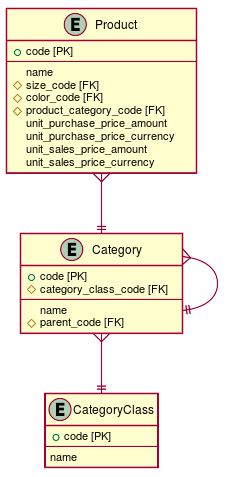
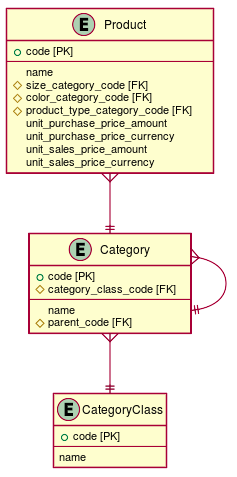
商品モデルの実装 #EFROR-77
・分類を汎化した商品モデルリファクタリング

diff --git a/spec/models/sales_modeling/type2/product_spec.rb b/spec/models/sales_modeling/type2/product_spec.rb
@@ -28,9 +28,9 @@ RSpec.describe SalesModeling::Type2::Product, type: :model do
   let(:product_a) { {
       code:product_code.code,
       name:'商品A',
-      size:s,
-      color:blue,
-      product_category:special,
+      size_category:s,
+      color_category:blue,
+      product_type_category:special,
       unit_purchase_price_amount:hundredYen.amount,
       unit_purchase_price_currency:hundredYen.currency,
       unit_sales_price_amount:hundredYen.+(SalesModeling::Type2::Money.new(100)).amount,
@@ -39,9 +39,9 @@ RSpec.describe SalesModeling::Type2::Product, type: :model do
   let(:product_b) { {
       code:product_code.code,
       name:'商品B',
-      size:m,
-      color:black,
-      product_category:normal,
+      size_category:m,
+      color_category:black,
+      product_type_category:normal,
       unit_purchase_price_amount:tenDollar.amount,
       unit_purchase_price_currency:tenDollar.currency,
       unit_sales_price_amount:tenDollar.+(SalesModeling::Type2::Money.new(10,'$')).amount,
@@ -50,9 +50,9 @@ RSpec.describe SalesModeling::Type2::Product, type: :model do
   let(:product_c) { {
       code:product_code.code,
       name:'商品C',
-      size:l,
-      color:red,
-      product_category:null,
+      size_category:l,
+      color_category:red,
+      product_type_category:null,
   } }
 
   describe '#save!' do
@@ -60,9 +60,9 @@ RSpec.describe SalesModeling::Type2::Product, type: :model do
       product = SalesModeling::Type2::Product.new
       product.name = '商品A'
       product.product_code = product_code
-      product.size = s
-      product.color = blue
-      product.product_category = special
+      product.size_category = s
+      product.color_category = blue
+      product.product_type_category = special
       product.unit_purchase_price = hundredYen
       product.unit_sales_price = hundredYen.+(SalesModeling::Type2::Money.new(100))
       product.save!
@@ -75,9 +75,9 @@ RSpec.describe SalesModeling::Type2::Product, type: :model do
       product = SalesModeling::Type2::Product.new({
                                                       name: '商品B',
                                                       product_code: product_code,
-                                                      size: m,
-                                                      color: black,
-                                                      product_category: normal,
+                                                      size_category: m,
+                                                      color_category: black,
+                                                      product_type_category: normal,
                                                       unit_purchase_price: tenDollar,
                                                       unit_sales_price: tenDollar.+(SalesModeling::Type1::Money.new(10,'$'))
                                                   })
@@ -91,9 +91,9 @@ RSpec.describe SalesModeling::Type2::Product, type: :model do
       product = {
           product_code:product_code,
           name:'商品C',
-          size:l,
-          color:red,
-          product_category:null,
+          size_category:l,
+          color_category:red,
+          product_type_category:null,
           unit_purchase_price: notSet,
           unit_sales_price: notSet
       }
@@ -130,9 +130,9 @@ private
 def check(new_product,check_product)
   expect(new_product.code).to eq check_product[:code]
   expect(new_product.name).to eq check_product[:name]
-  expect(new_product.size.name).to eq check_product[:size].name
-  expect(new_product.color.name).to eq check_product[:color].name
-  expect(new_product.product_category.name).to eq check_product[:product_category].name
+  expect(new_product.size_category.name).to eq check_product[:size_category].name
+  expect(new_product.color_category.name).to eq check_product[:color_category].name
+  expect(new_product.product_type_category.name).to eq check_product[:product_type_category].name
   expect(new_product.unit_purchase_price_amount).to eq check_product[:unit_purchase_price_amount]
   expect(new_product.unit_purchase_price_currency).to eq check_product[:unit_purchase_price_currency]
   expect(new_product.unit_sales_price_amount).to eq check_product[:unit_sales_price_amount]

diff --git a/app/models/sales_modeling/type2/product.rb b/app/models/sales_modeling/type2/product.rb
@@ -5,9 +5,9 @@
 #  id                           :integer          not null, primary key
 #  code                         :string(255)                            # 商品コード
 #  name                         :string(255)                            # 商品名
-#  size_id                      :integer                                # サイズ
-#  color_id                     :integer                                # 色
-#  product_category_id          :integer                                # 製品区分
+#  size_category_id             :integer                                # サイズ
+#  color_category_id            :integer                                # 色
+#  product_type_category_id     :integer                                # 製品区分
 #  unit_purchase_price_amount   :decimal(10, )                          # 仕入単価
 #  unit_purchase_price_currency :string(255)                            # 仕入単価通貨
 #  unit_sales_price_amount      :decimal(10, )                          # 販売単価
@@ -17,15 +17,15 @@
 #
 # Indexes
 #
-#  index_sales_modeling_type2_products_on_color_id             (color_id)
-#  index_sales_modeling_type2_products_on_product_category_id  (product_category_id)
-#  index_sales_modeling_type2_products_on_size_id              (size_id)
+#  index_color_category_id         (color_category_id)
+#  index_product_type_category_id  (product_type_category_id)
+#  index_size_category_id          (size_category_id)
 #
 
 class SalesModeling::Type2::Product < ApplicationRecord
-  belongs_to :size, :class_name => 'SalesModeling::Type2::Category'
-  belongs_to :color, :class_name => 'SalesModeling::Type2::Category'
-  belongs_to :product_category, :class_name => 'SalesModeling::Type2::Category'
+  belongs_to :size_category, :class_name => 'SalesModeling::Type2::Category'
+  belongs_to :color_category, :class_name => 'SalesModeling::Type2::Category'
+  belongs_to :product_type_category, :class_name => 'SalesModeling::Type2::Category'
 
   def product_code
     @product_code ||= SalesModeling::Type2::ProductCode.new(self.code)

diff --git a/db/schema.rb b/db/schema.rb
@@ -412,18 +412,18 @@ ActiveRecord::Schema.define(version: 20171031061935) do
   create_table "sales_modeling_type2_products", force: :cascade, comment: "商品" do |t|
     t.string "code", comment: "商品コード"
     t.string "name", comment: "商品名"
-    t.bigint "size_id", comment: "サイズ"
-    t.bigint "color_id", comment: "色"
-    t.bigint "product_category_id", comment: "製品区分"
+    t.bigint "size_category_id", comment: "サイズ"
+    t.bigint "color_category_id", comment: "色"
+    t.bigint "product_type_category_id", comment: "製品区分"
     t.decimal "unit_purchase_price_amount", precision: 10, comment: "仕入単価"
     t.string "unit_purchase_price_currency", comment: "仕入単価通貨"
     t.decimal "unit_sales_price_amount", precision: 10, comment: "販売単価"
     t.string "unit_sales_price_currency", comment: "販売単価通貨"
     t.datetime "created_at", null: false
     t.datetime "updated_at", null: false
-    t.index ["color_id"], name: "index_sales_modeling_type2_products_on_color_id"
-    t.index ["product_category_id"], name: "index_sales_modeling_type2_products_on_product_category_id"
-    t.index ["size_id"], name: "index_sales_modeling_type2_products_on_size_id"
+    t.index ["color_category_id"], name: "index_color_category_id"
+    t.index ["product_type_category_id"], name: "index_product_type_category_id"
+    t.index ["size_category_id"], name: "index_size_category_id"
   end
 
   create_table "todo_tasks", force: :cascade, comment: "タスク" do |t|

diff --git a/db/migrate/20171031061935_create_sales_modeling_type2_products.rb b/db/migrate/20171031061935_create_sales_modeling_type2_products.rb
@@ -3,9 +3,9 @@ class CreateSalesModelingType2Products < ActiveRecord::Migration[5.1]
     create_table :sales_modeling_type2_products,comment:'商品' do |t|
       t.string :code, comment:'商品コード'
       t.string :name, comment:'商品名'
-      t.references :size, comment:'サイズ'
-      t.references :color, comment:'色'
-      t.references :product_category, comment:'製品区分'
+      t.references :size_category, comment:'サイズ', index: {name:'index_size_category_id'}
+      t.references :color_category, comment:'色', index: {name:'index_color_category_id'}
+      t.references :product_type_category, comment:'製品区分', index: {name:'index_product_type_category_id'}
       t.decimal :unit_purchase_price_amount, comment:'仕入単価'
       t.string :unit_purchase_price_currency, comment:'仕入単価通貨'
       t.decimal :unit_sales_price_amount, comment:'販売単価'

diff --git a/docs/dev/sales_modeling/type2_product_.md b/docs/dev/sales_modeling/type2_product_.md
@@ -7,15 +7,15 @@ SalesModeling
 ## 分析モデル
   
 
-![](assets/18ea6da402e4324333324e00d3b39f9d0.png?0.6544032584328101)  
+![](assets/18ea6da402e4324333324e00d3b39f9d0.png?0.5839159950701984)  
 ## 設計モデル
   
 
-![](assets/18ea6da402e4324333324e00d3b39f9d1.png?0.3285808393380094)  
+![](assets/18ea6da402e4324333324e00d3b39f9d1.png?0.3822151868581143)  
 ## ERモデル
   
 
-![](assets/18ea6da402e4324333324e00d3b39f9d2.png?0.4853340404223623)  
+![](assets/18ea6da402e4324333324e00d3b39f9d2.png?0.5856196700603202)  
 `Product`
 ```rb
 # == Schema Information
@@ -25,9 +25,9 @@ SalesModeling
 #  id                           :integer          not null, primary key
 #  code                         :string(255)                            # 商品コード
 #  name                         :string(255)                            # 商品名
-#  size_id                      :integer                                # サイズ
-#  color_id                     :integer                                # 色
-#  product_category_id          :integer                                # 製品区分
+#  size_category_id             :integer                                # サイズ
+#  color_category_id            :integer                                # 色
+#  product_type_category_id     :integer                                # 製品区分
 #  unit_purchase_price_amount   :decimal(10, )                          # 仕入単価
 #  unit_purchase_price_currency :string(255)                            # 仕入単価通貨
 #  unit_sales_price_amount      :decimal(10, )                          # 販売単価
@@ -37,15 +37,15 @@ SalesModeling
 #
 # Indexes
 #
-#  index_sales_modeling_type2_products_on_color_id             (color_id)
-#  index_sales_modeling_type2_products_on_product_category_id  (product_category_id)
-#  index_sales_modeling_type2_products_on_size_id              (size_id)
+#  index_color_category_id         (color_category_id)
+#  index_product_type_category_id  (product_type_category_id)
+#  index_size_category_id          (size_category_id)
 #
   
 class SalesModeling::Type2::Product < ApplicationRecord
-  belongs_to :size, :class_name => 'SalesModeling::Type2::Category'
-  belongs_to :color, :class_name => 'SalesModeling::Type2::Category'
-  belongs_to :product_category, :class_name => 'SalesModeling::Type2::Category'
+  belongs_to :size_category, :class_name => 'SalesModeling::Type2::Category'
+  belongs_to :color_category, :class_name => 'SalesModeling::Type2::Category'
+  belongs_to :product_type_category, :class_name => 'SalesModeling::Type2::Category'
   
   def product_code
     @product_code ||= SalesModeling::Type2::ProductCode.new(self.code)

diff --git a/docs/dev/sales_modeling/type2_product.md b/docs/dev/sales_modeling/type2_product.md
@@ -31,9 +31,9 @@ class 分類種別 {
 class Product {
   product_code
   name
-  size
-  color
-  product_category
+  size_category
+  color_category
+  product_type_category
   unit_purchase_price
   unit_sales_price
 }
@@ -45,7 +45,7 @@ class Color {
   code
   name
 }
-class ProductCategory {
+class ProductType {
   code
   name
 }
@@ -59,7 +59,7 @@ class Money {
 }
 Product --ro Size
 Product -o Color
-Product --o ProductCategory
+Product --o ProductType
 Product o-- ProductCode
 Product o-- Money
 ```
@@ -69,9 +69,9 @@ entity Product {
   + code [PK]
   --
   name
-  # size_code [FK]
-  # color_code [FK]
-  # product_category_code [FK]
+  # size_category_code [FK]
+  # color_category_code [FK]
+  # product_type_category_code [FK]
   unit_purchase_price_amount
   unit_purchase_price_currency
   unit_sales_price_amount
